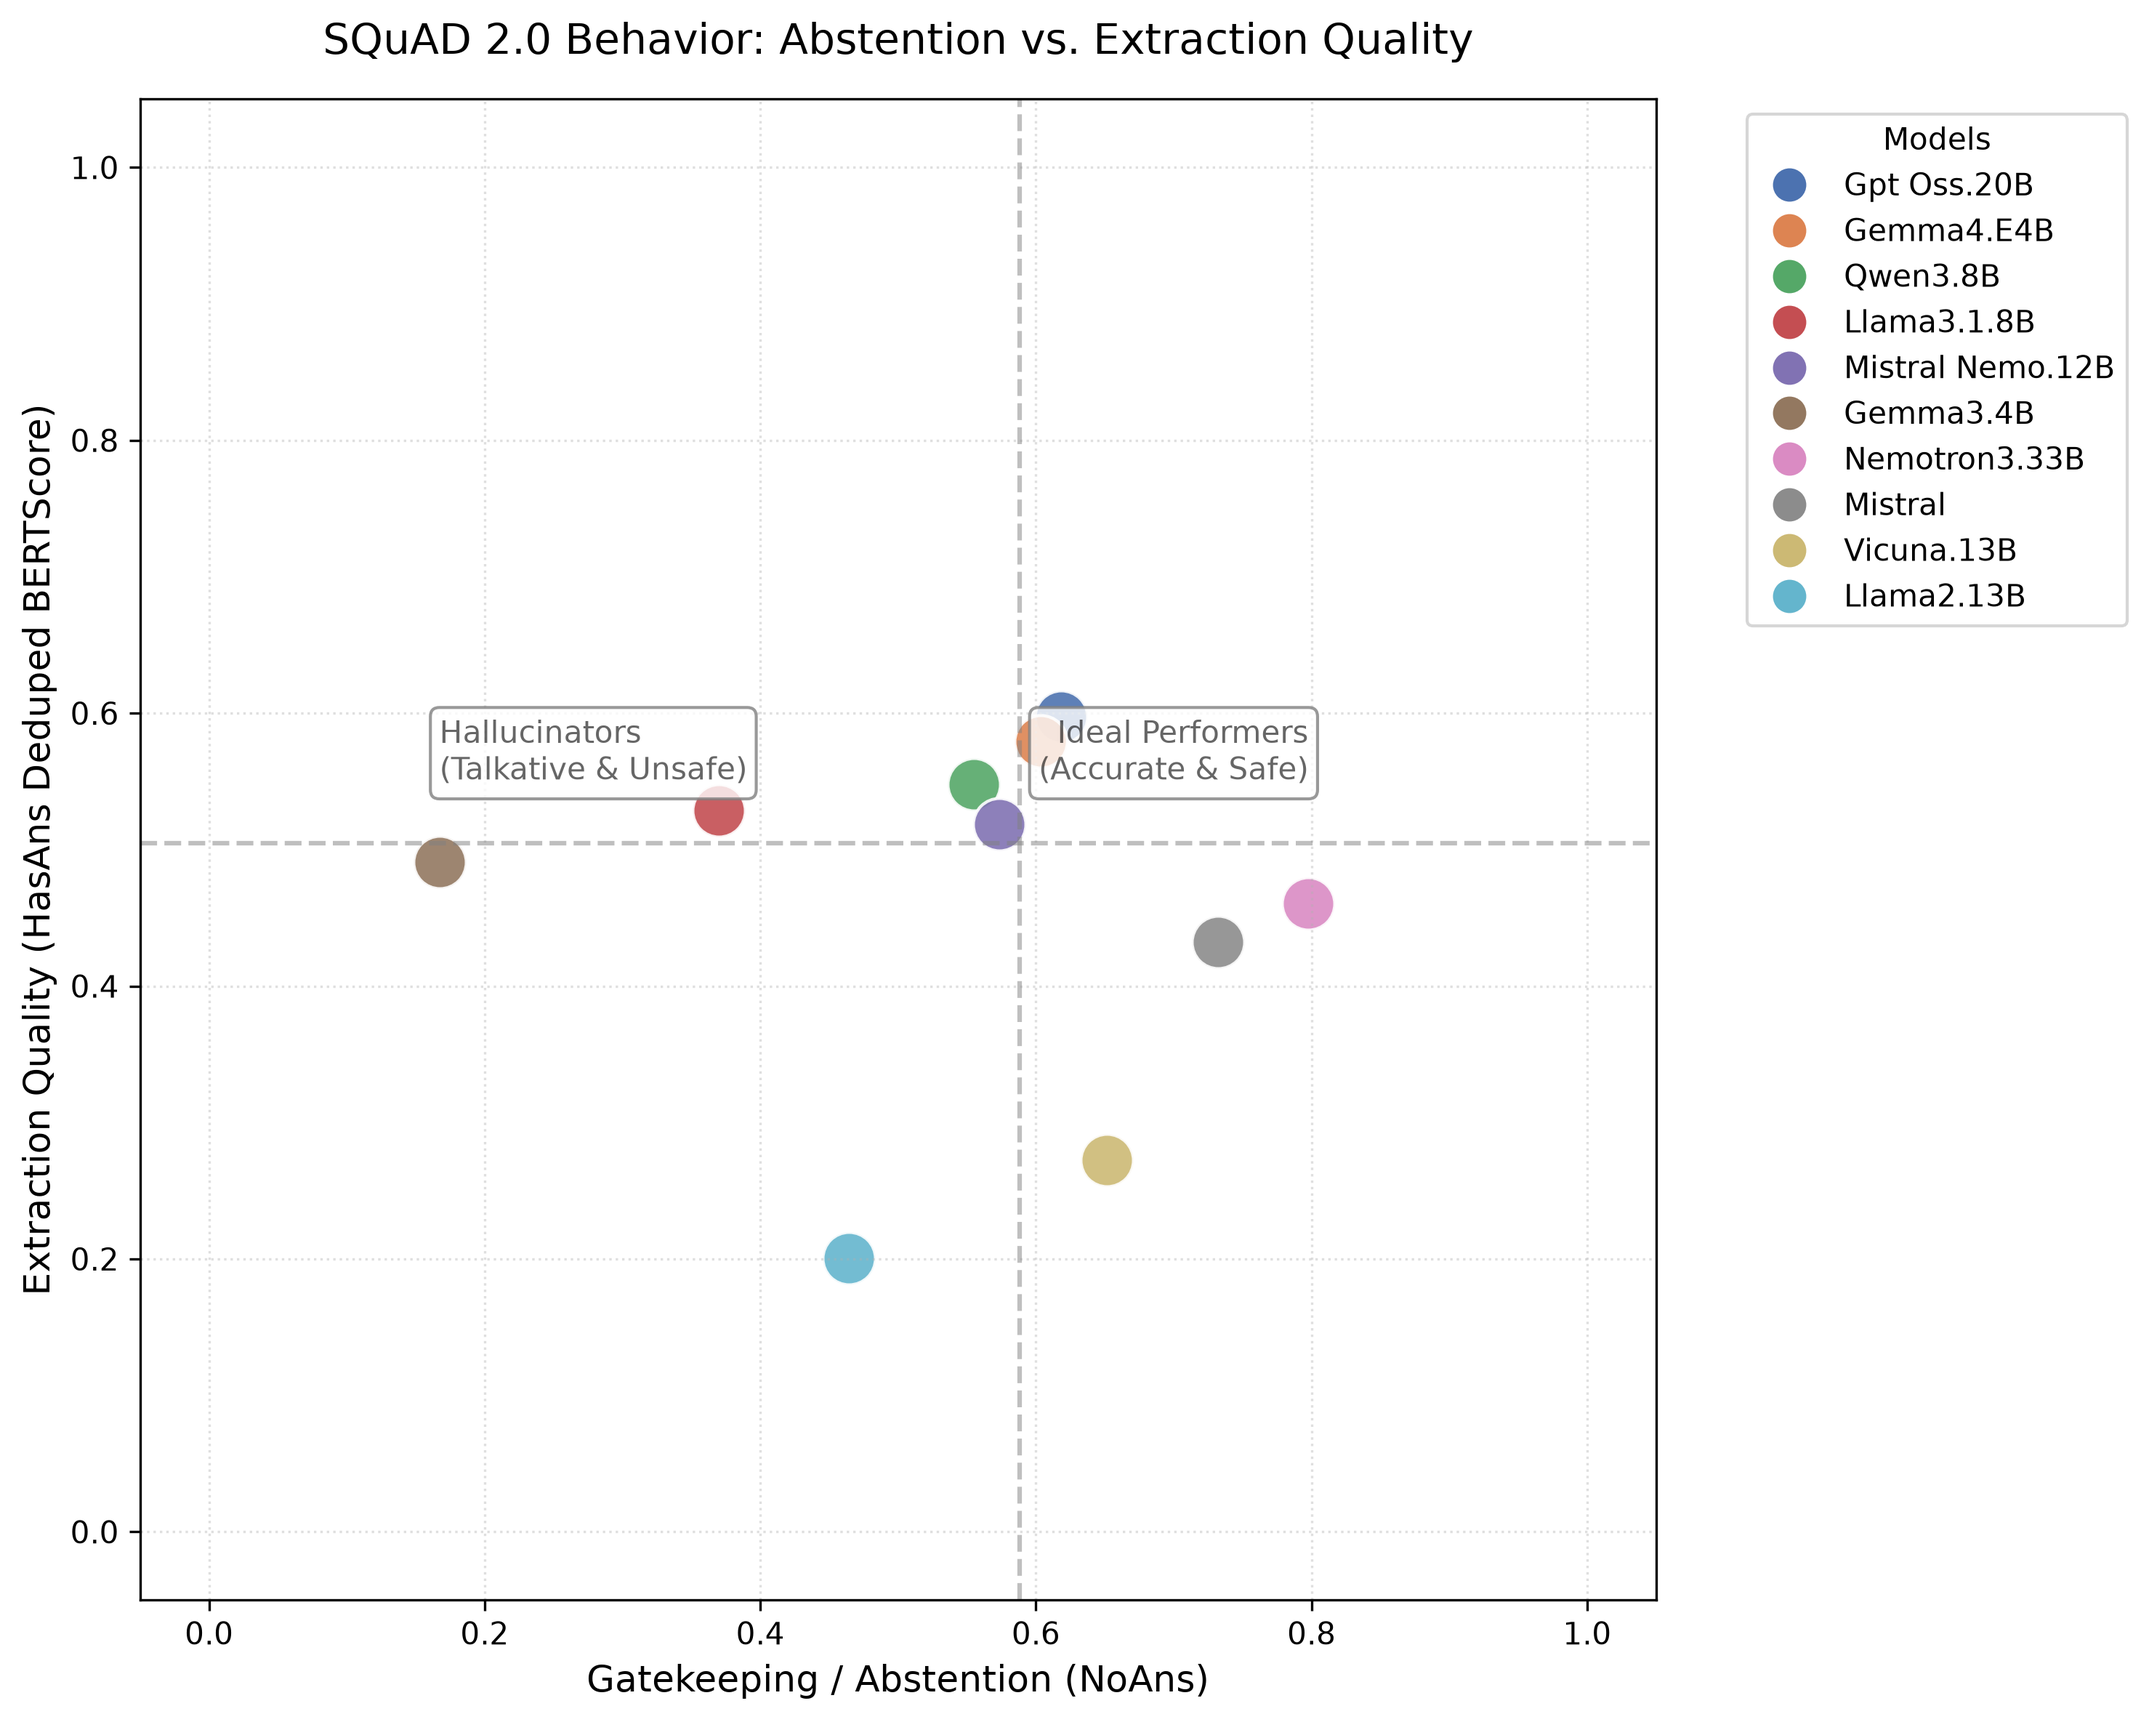
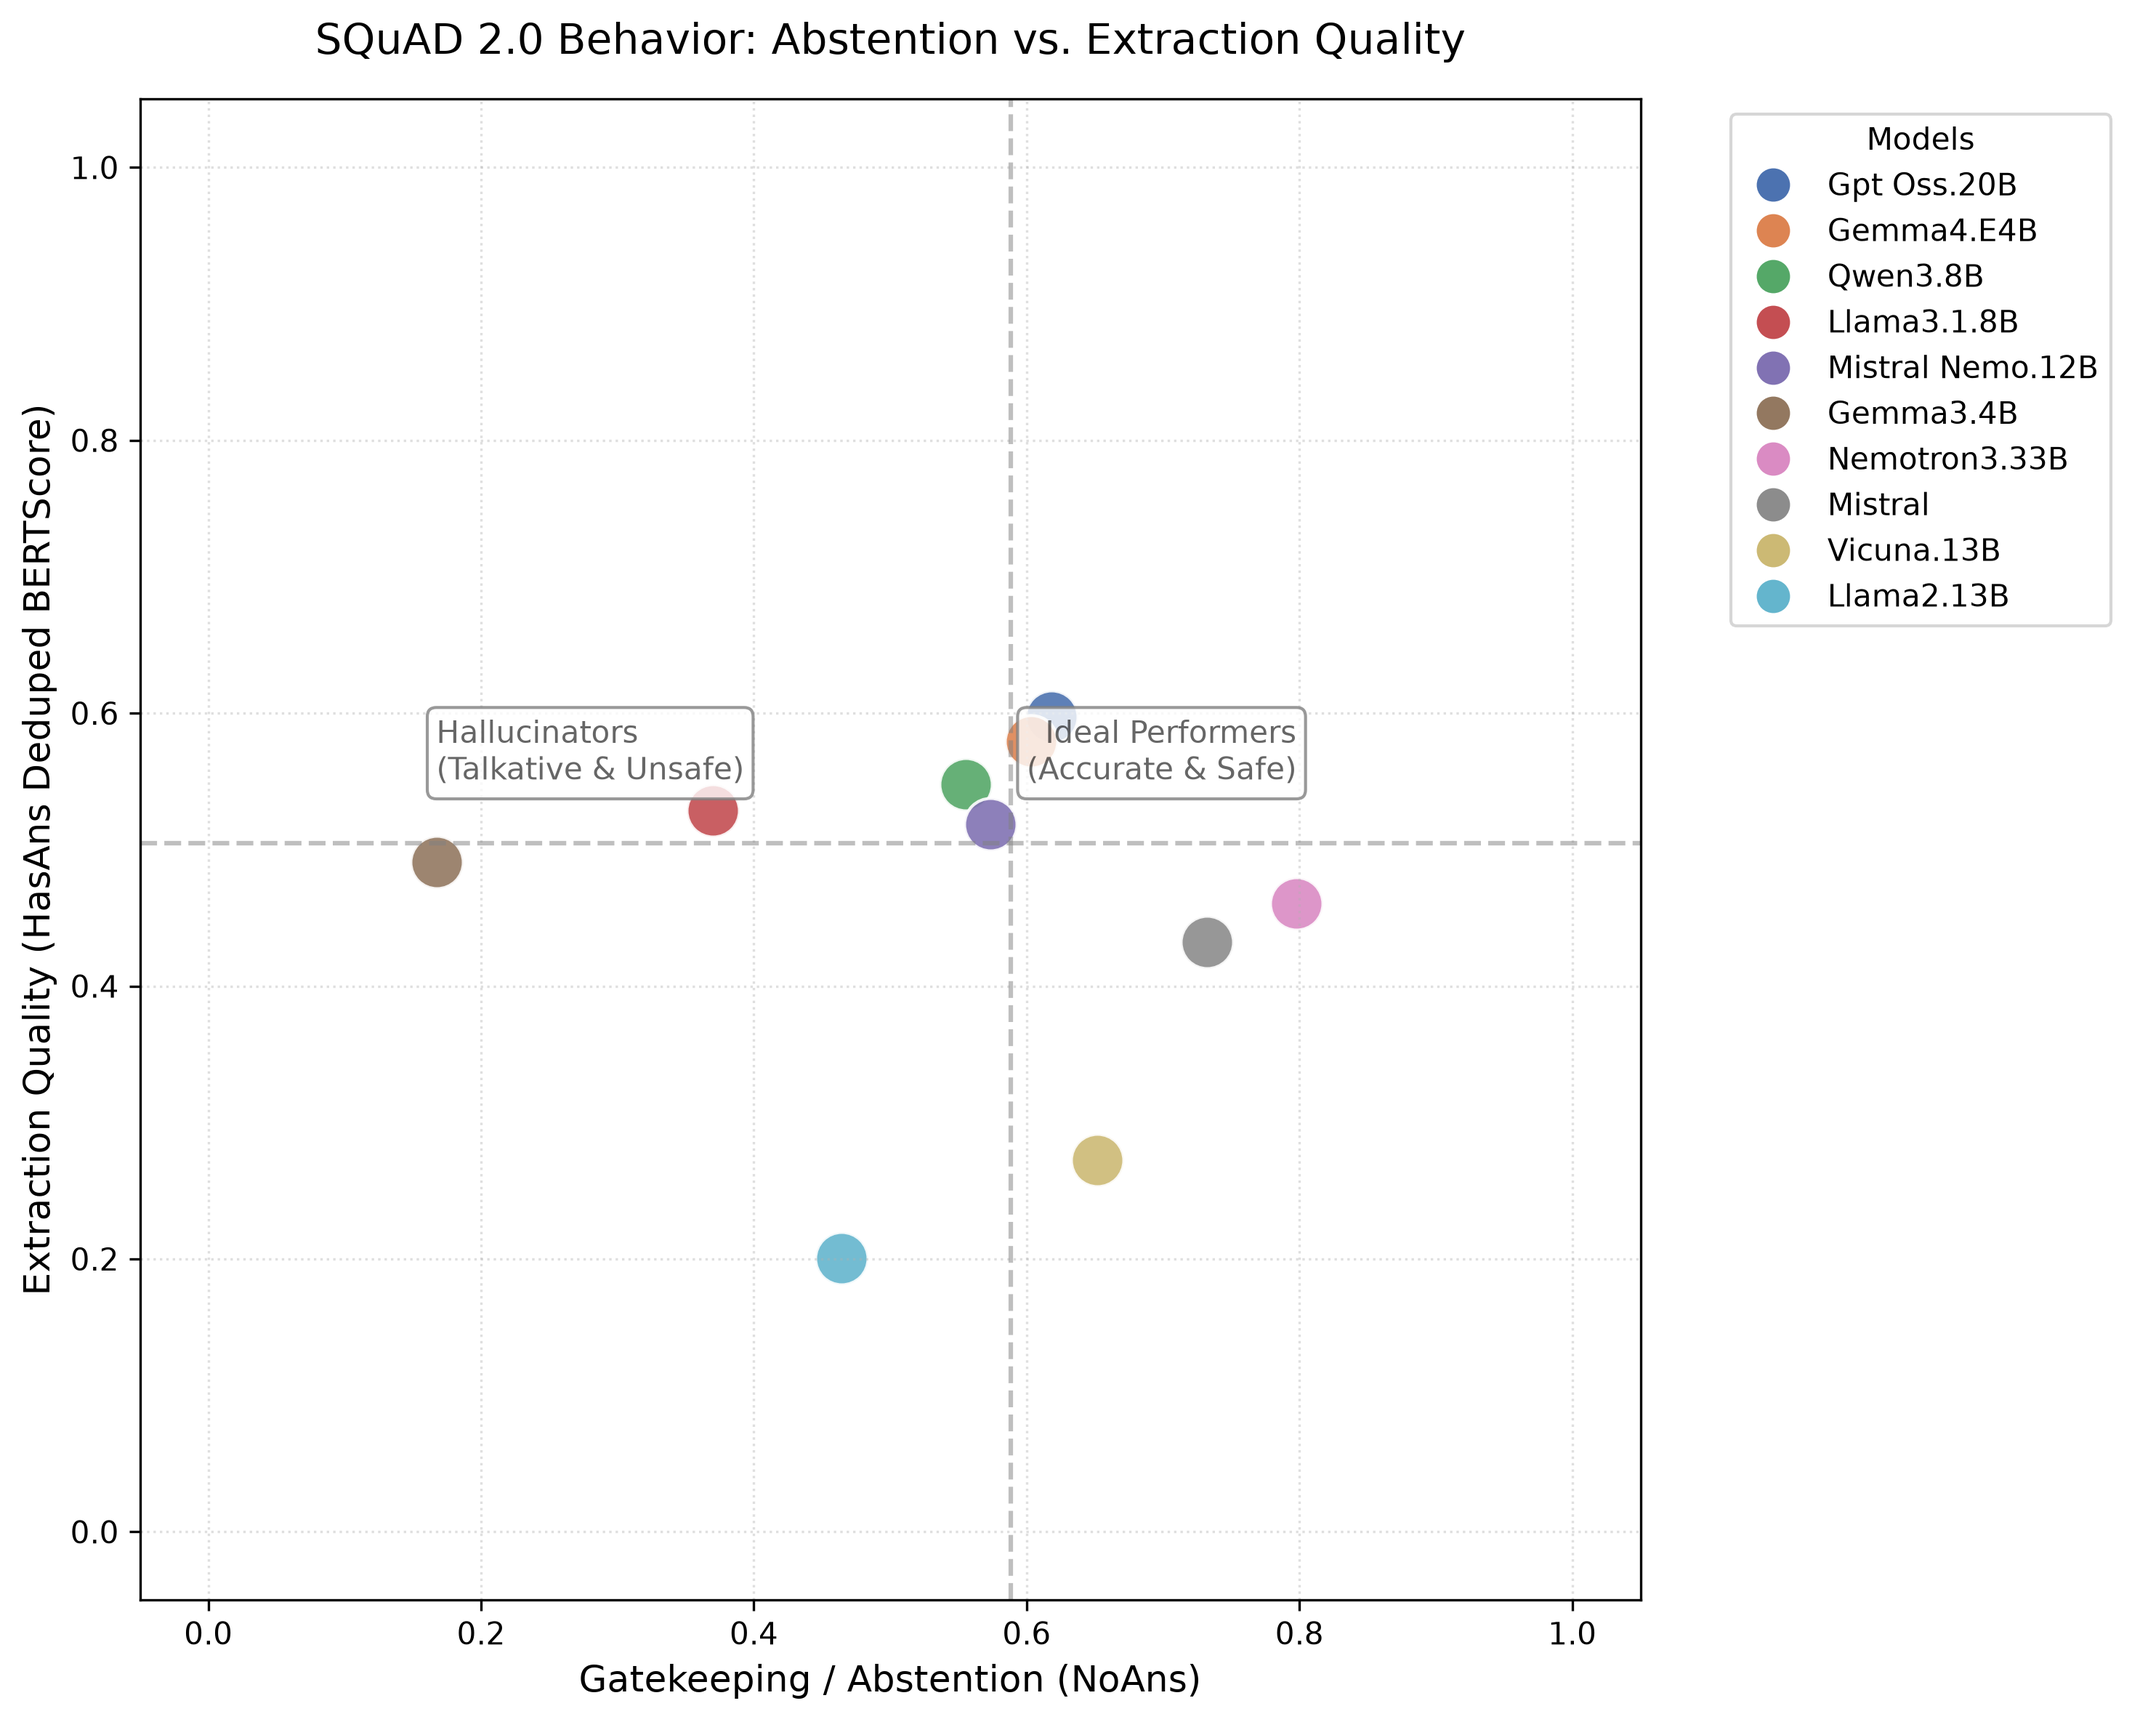
unify plot dimensions

diff --git a/evaluation/scripts/visualization.py b/evaluation/scripts/visualization.py
@@ -26,7 +26,8 @@ def clear_assets_dir():
 def generate_performance_quadrant(df, model_col="Model", filename="master_quadrant.png"):
     """Plots Answerability (NoAns Acc) vs. Extraction Quality (HasAns Dedup BERT)."""
     _ensure_assets_dir()
-    fig, ax = plt.subplots(figsize=(10, 8)) 
+    # Unified sizing for quadrant plots
+    fig, ax = plt.subplots(figsize=(11, 8)) 
     
     models = df[model_col].unique()
     palette = sns.color_palette("deep", len(models))
@@ -60,6 +61,9 @@ def generate_performance_quadrant(df, model_col="Model", filename="master_quadra
     ax.set_xlim(-0.05, 1.05)
     ax.set_ylim(-0.05, 1.05)
     ax.grid(True, linestyle=':', alpha=0.4)
+    
+    # FORCES the axes box to be a perfect square, making the unified domain physically accurate
+    ax.set_box_aspect(1)
    
     model_handles = [mlines.Line2D([], [], color=color_map[m], marker='o', 
                                    linestyle='None', markersize=10, label=m.replace('*', '')) for m in models]
@@ -73,6 +77,7 @@ def generate_performance_quadrant(df, model_col="Model", filename="master_quadra
 def generate_strict_vs_relaxed_quadrant(df, model_col="Model", filename="strict_vs_relaxed.png"):
     """Plots the performance shift from Strict (Span F1) to Relaxed (Token F1)."""
     _ensure_assets_dir()
+    # Unified sizing
     fig, ax = plt.subplots(figsize=(11, 8))
     
     models = df[model_col].unique()
@@ -101,6 +106,8 @@ def generate_strict_vs_relaxed_quadrant(df, model_col="Model", filename="strict_
     ax.set_xlim(-0.05, 1.05)
     ax.set_ylim(-0.05, 1.05)
     ax.grid(True, alpha=0.3)
+    
+    ax.set_box_aspect(1)
    
     model_handles = [mlines.Line2D([], [], color=color_map[m], marker='s', 
                                    linestyle='None', markersize=10, label=m.replace('*', '')) for m in models]
@@ -120,7 +127,8 @@ def generate_strict_vs_relaxed_quadrant(df, model_col="Model", filename="strict_
 def generate_verbosity_scatter(df, model_col="Model", filename="verbosity_vs_accuracy.png"):
     """Plots Avg Spans vs HasAns Dedup BERT."""
     _ensure_assets_dir()
-    fig, ax = plt.subplots(figsize=(9, 6))
+    # Unified sizing
+    fig, ax = plt.subplots(figsize=(11, 8))
     
     models = df[model_col].unique()
     palette = sns.color_palette("deep", len(models))
@@ -139,6 +147,8 @@ def generate_verbosity_scatter(df, model_col="Model", filename="verbosity_vs_acc
     
     ax.set_ylim(-0.05, 1.05)
     ax.grid(True, linestyle=':', alpha=0.6)
+    
+    ax.set_box_aspect(1)
     
     handles_to_plot = [mlines.Line2D([], [], color=color_map[m], marker='o', 
                                    linestyle='None', markersize=10, label=m.replace('*', '')) for m in models]
@@ -162,7 +172,8 @@ def generate_verbosity_scatter(df, model_col="Model", filename="verbosity_vs_acc
 
 def generate_task_heatmap_overall(df, filename="task_complexity_heatmap_overall.png"):
     _ensure_assets_dir()
-    fig, ax = plt.subplots(figsize=(10, 6))
+    # Unified sizing for structural plots
+    fig, ax = plt.subplots(figsize=(11, 6))
     
     heatmap_data = df.pivot(index="Model Target", columns="Question Track", values="Overall Dedup BERT")
     if "Question 1" in heatmap_data.columns:
@@ -180,7 +191,7 @@ def generate_task_heatmap_overall(df, filename="task_complexity_heatmap_overall.
 
 def generate_task_heatmap_hasans(df, filename="task_complexity_heatmap_hasans.png"):
     _ensure_assets_dir()
-    fig, ax = plt.subplots(figsize=(10, 6))
+    fig, ax = plt.subplots(figsize=(11, 6))
     
     heatmap_data = df.pivot(index="Model Target", columns="Question Track", values="HasAns Dedup BERT")
     if "Question 1" in heatmap_data.columns:
@@ -212,7 +223,8 @@ def generate_classification_dropoff(df, filename="classification_dropoff_q2.png"
     x = np.arange(len(models))
     width = 0.35
 
-    fig, ax = plt.subplots(figsize=(10, 6))
+    # Unified bar chart sizing
+    fig, ax = plt.subplots(figsize=(11, 6))
     
     rects1 = ax.bar(x - width/2, text_scores, width, label='Extracted Correct Text (Span F1)', color='#4c72b0')
     rects2 = ax.bar(x + width/2, label_scores, width, label='Assigned Correct Label (Labeled Span F1)', color='#dd8452')
@@ -223,7 +235,6 @@ def generate_classification_dropoff(df, filename="classification_dropoff_q2.png"
     ax.set_xticks(x)
     ax.set_xticklabels([str(m).replace('*', '') for m in models], rotation=45, ha='right')
     
-    # Legend tucked inside the graph
     ax.legend(loc='upper right')
     ax.grid(True, axis='y', linestyle=':', alpha=0.6)
 
@@ -247,7 +258,8 @@ def generate_pr_bars(df, x_col, y_col, title, filename):
     x = np.arange(len(models))
     width = 0.35
 
-    fig, ax = plt.subplots(figsize=(10, 6))
+    # Unified bar chart sizing
+    fig, ax = plt.subplots(figsize=(11, 6))
     
     rects1 = ax.bar(x - width/2, recall_scores, width, label='Recall (Found the correct text)', color='#4c72b0')
     rects2 = ax.bar(x + width/2, precision_scores, width, label='Precision (Only extracted the right text)', color='#dd8452')
@@ -258,7 +270,6 @@ def generate_pr_bars(df, x_col, y_col, title, filename):
     ax.set_xticks(x)
     ax.set_xticklabels([str(m).replace('*', '') for m in models], rotation=45, ha='right')
     
-    # Legend tucked inside the graph
     ax.legend(loc='upper right')
     ax.grid(True, axis='y', linestyle=':', alpha=0.6)
 
@@ -269,7 +280,6 @@ def generate_pr_bars(df, x_col, y_col, title, filename):
 def generate_category_pr_grid(df, filename="q2_category_pr_grid.png"):
     """
     Plot B: Grid panels = Models. X/Y = Recall/Precision. Colors = Event Categories.
-    (No F1 line to prevent visual clutter).
     """
     _ensure_assets_dir()
     
@@ -305,7 +315,7 @@ def generate_category_pr_grid(df, filename="q2_category_pr_grid.png"):
 
     palette = sns.color_palette("deep", len(top_cats))
     
-    g = sns.FacetGrid(plot_df, col="Model", col_wrap=3, height=3.5, aspect=1.1, hue="Category", palette=palette)
+    g = sns.FacetGrid(plot_df, col="Model", col_wrap=3, height=4, aspect=1, hue="Category", palette=palette)
     
     g.map_dataframe(sns.scatterplot, x="Recall", y="Precision", s=150, alpha=0.9, edgecolor='white')
     

diff --git a/evaluation/evaluation_report.md b/evaluation/evaluation_report.md
@@ -1,7 +1,7 @@
 # LLM Evaluation Report
 **Total Models Evaluated:** 13
 **Total Documents Processed:** 1860
-**Full Evaluation Compute Time:** 660.97 seconds
+**Full Evaluation Compute Time:** 650.13 seconds
 
 ## Part 1: Global Benchmark Leaderboard (SQuAD 2.0 Evaluation)
 > *All text metrics formatted as (Overall / HasAns)*
